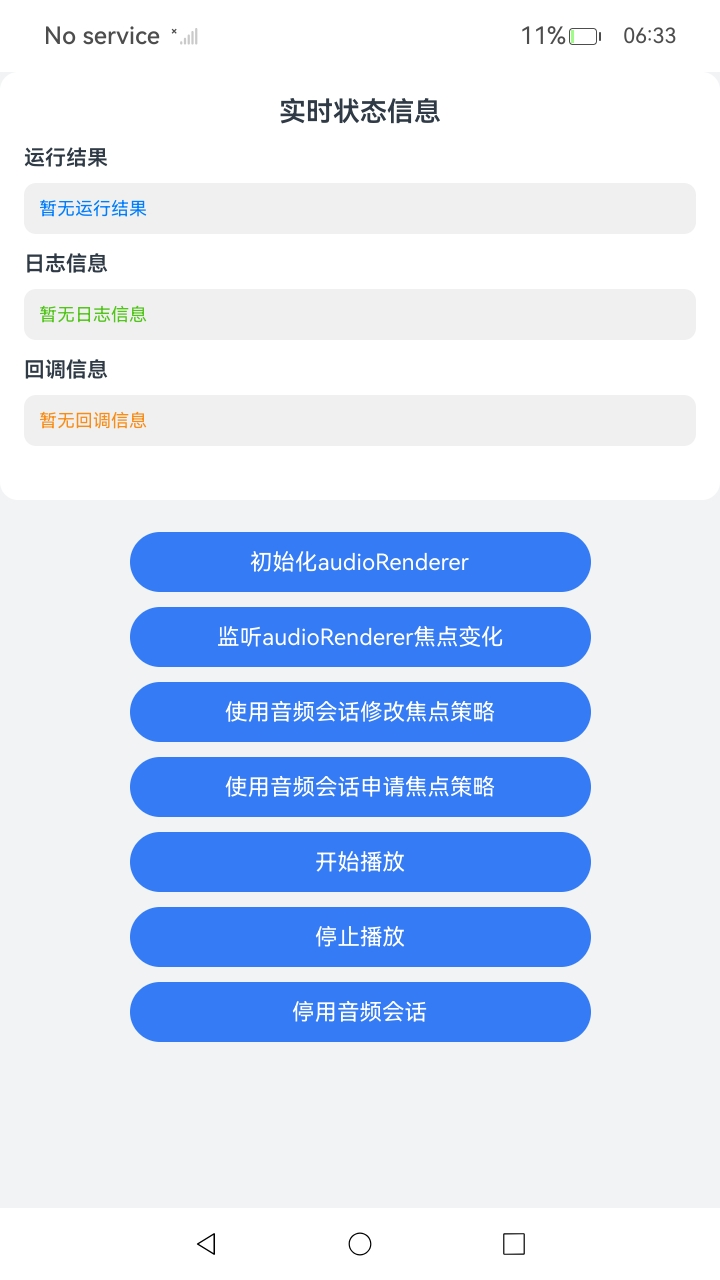
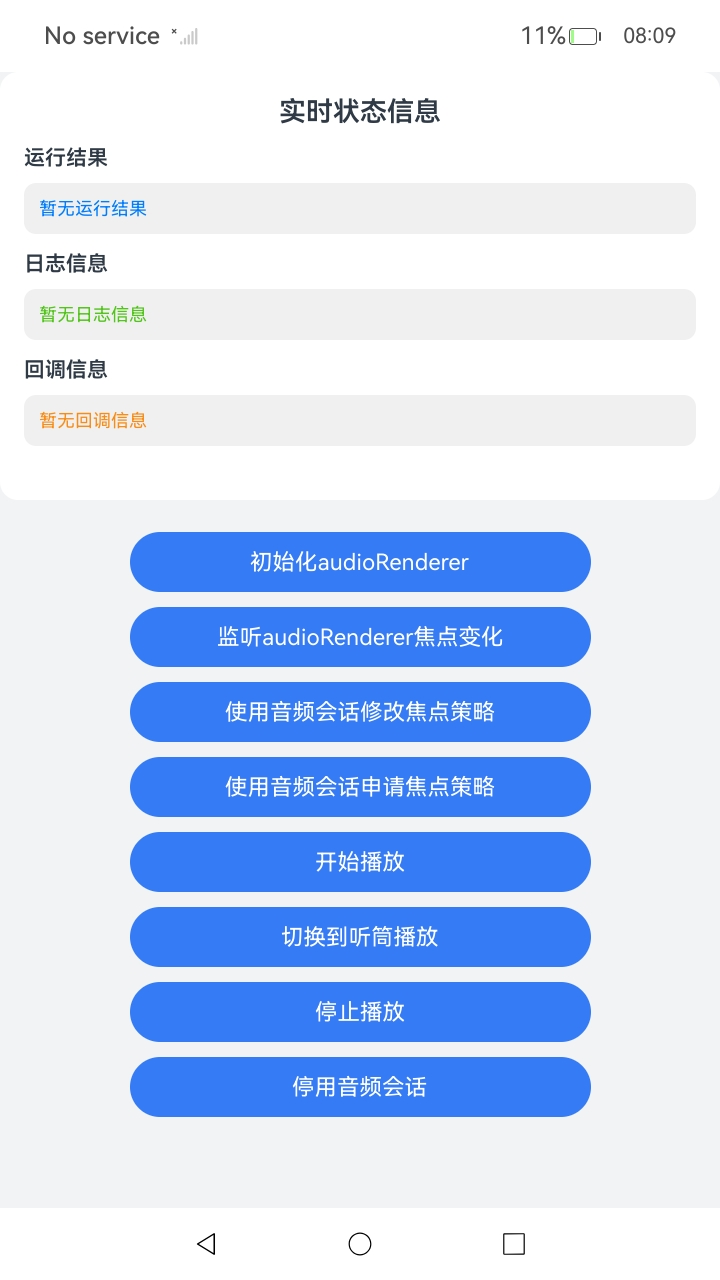
audio sample 优化

Changed region(s): [[0.1833, 0.7812, 0.825, 0.875], [0.3972, 0.7188, 0.6111, 0.75], [0.8861, 0.0, 0.9472, 0.0312]]

diff --git a/code/DocsSample/Media/Audio/AudioSessionSampleJS/README.md b/code/DocsSample/Media/Audio/AudioSessionSampleJS/README.md
@@ -13,6 +13,7 @@
 - 依次点击'初始化audioRenderer'、'监听audioRenderer焦点变化'、'开始播放'按钮，即可使用默认焦点策略播放音频。
 - 依次点击'初始化audioRenderer'、'监听audioRenderer焦点变化'、'使用音频会话修改焦点策略'、'开始播放'按钮，即可使用音频会话修改焦点策略并播放音频。
 - 依次点击'初始化audioRenderer'、'使用音频会话申请焦点策略'、'开始播放'按钮，即可使用音频会话申请焦点策略并播放音频。
+- 依次点击'初始化audioRenderer'、'使用音频会话修改焦点策略'、'开始播放'、'切换到听筒播放'按钮，即可切换到听筒播放音频。
 - 播放时依次点击'停止播放'、'停用音频会话'按钮，即可结束本次会话。
 
 ## 工程结构&模块类型
@@ -37,6 +38,7 @@
   - 点击'使用音频会话修改焦点策略'按钮，首先配置焦点策略为`CONCURRENCY_MIX_WITH_OTHERS`，接着调用`audioSessionManager.activateAudioSession`激活音频焦点，然后通过`audioSessionManager.on('audioSessionDeactivated')`监听音频会话停用事件。
   - 点击'使用音频会话申请焦点策略'按钮，首先设置音频会话场景为`AUDIO_SESSION_SCENE_MEDIA`并配置焦点策略为`CONCURRENCY_MIX_WITH_OTHERS`，接着调用`audioSessionManager.enableMuteSuggestionWhenMixWithOthers`接口后调用`audioSessionManager.activateAudioSession`激活音频焦点，然后通过`audioSessionManager.on('audioSessionStateChanged')`监听AudioSession焦点和状态变化事件。
   - 点击'开始播放'按钮，调用`audioRenderer.start`开始播放音频。
+  - 点击'切换到听筒播放'按钮，调用`audioSessionManager.setDefaultOutputDevice`切换到听筒播放音频。
   - 点击'停止播放'按钮，调用`audioRenderer.stop`停止播放音频。
   - 点击'停用音频会话'按钮，首先调用`audioSessionManager.off`来取消所有监听事件，再调用`audioSessionManager.deactivateAudioSession`结束当前应用的音频会话。
 

diff --git a/code/DocsSample/Media/Audio/AudioSessionSampleJS/ohosTest.md b/code/DocsSample/Media/Audio/AudioSessionSampleJS/ohosTest.md
@@ -10,5 +10,6 @@
 | 使用音频会话修改焦点策略        | 位于主页     | 点击"使用音频会话修改焦点策略"       | 激活 AudioSession（并发策略为 MIX_WITH_OTHERS）并注册监听音频会话停用事件                                                | 是      |
 | 使用音频会话申请焦点策略        | 位于主页     | 点击"使用音频会话申请焦点策略"        | 激活 AudioSession（并发策略为 MIX_WITH_OTHERS，音频会话场景为 AUDIO_SESSION_SCENE_MEDIA）并注册监听AudioSession焦点和状态变化事件 | 是      |
 | 开始播放                | 位于主页     | 点击"开始播放"       | 开始播放音频                                                                                             | 是      |
+| 切换到听筒播放                | 位于主页     | 点击"切换到听筒播放"       | 音频切换到听筒播放                                                                                             | 是      |
 | 停止播放                | 位于主页     | 点击"停止播放"       | 停止播放音频                                                                                             | 是      |
 | 注销音频会话并注销监听         | 位于主页     | 点击"停用音频会话"       | 停用 AudioSession 并移除所有已注册的事件监听事件                                                                    | 是      |
